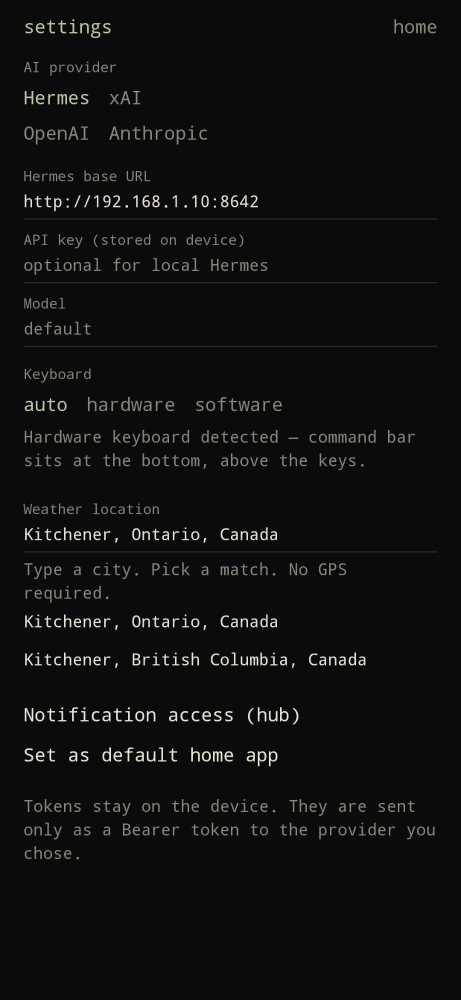
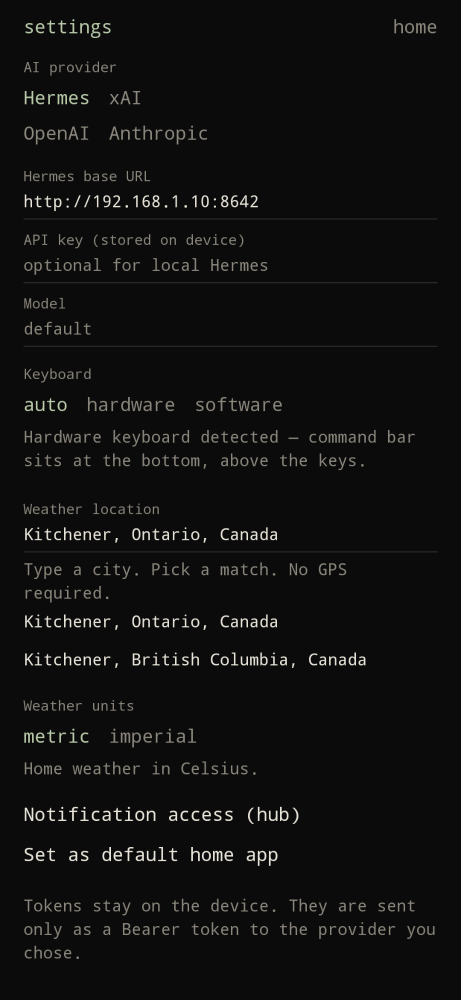
feat: choose metric or imperial weather units
Settings stores weather units and converts Celsius on the home line
so imperial does not wait on a refetch.

diff --git a/app/src/main/java/xyz/cdr/builderlauncher/data/SettingsRepository.kt b/app/src/main/java/xyz/cdr/builderlauncher/data/SettingsRepository.kt
@@ -22,6 +22,7 @@ data class BuilderSettings(
     val weatherPlace: String = "",
     val weatherLat: Double? = null,
     val weatherLon: Double? = null,
+    val weatherUnits: WeatherUnits = WeatherUnits.METRIC,
     val oauthAccess: String = "",
     val oauthRefresh: String = "",
     val oauthExpiresAtEpochMs: Long = 0L,
@@ -38,6 +39,15 @@ data class BuilderSettings(
 }
 
 enum class KeyboardMode { AUTO, HARDWARE, SOFTWARE }
+
+enum class WeatherUnits {
+    METRIC,
+    IMPERIAL,
+    ;
+
+    fun displayTemperature(celsius: Int): Int =
+        if (this == IMPERIAL) kotlin.math.round(celsius * 9.0 / 5.0 + 32.0).toInt() else celsius
+}
 
 class SettingsRepository(context: Context) {
     private val appContext = context.applicationContext
@@ -92,6 +102,9 @@ class SettingsRepository(context: Context) {
         val kb = runCatching {
             KeyboardMode.valueOf(prefs.getString(KEY_KB, KeyboardMode.AUTO.name)!!)
         }.getOrDefault(KeyboardMode.AUTO)
+        val units = runCatching {
+            WeatherUnits.valueOf(prefs.getString(KEY_WEATHER_UNITS, WeatherUnits.METRIC.name)!!)
+        }.getOrDefault(WeatherUnits.METRIC)
         return BuilderSettings(
             provider = provider,
             hermesBaseUrl = prefs.getString(KEY_HERMES, "") ?: "",
@@ -101,6 +114,7 @@ class SettingsRepository(context: Context) {
             weatherPlace = prefs.getString(KEY_WEATHER_PLACE, "") ?: "",
             weatherLat = prefs.getString(KEY_WEATHER_LAT, "")?.toDoubleOrNull(),
             weatherLon = prefs.getString(KEY_WEATHER_LON, "")?.toDoubleOrNull(),
+            weatherUnits = units,
             oauthAccess = prefs.getString(KEY_OAUTH_ACCESS, "") ?: "",
             oauthRefresh = prefs.getString(KEY_OAUTH_REFRESH, "") ?: "",
             oauthExpiresAtEpochMs = prefs.getString(KEY_OAUTH_EXPIRES, "0")?.toLongOrNull() ?: 0L,
@@ -118,6 +132,7 @@ class SettingsRepository(context: Context) {
             .putString(KEY_WEATHER_PLACE, next.weatherPlace)
             .putString(KEY_WEATHER_LAT, next.weatherLat?.toString() ?: "")
             .putString(KEY_WEATHER_LON, next.weatherLon?.toString() ?: "")
+            .putString(KEY_WEATHER_UNITS, next.weatherUnits.name)
             .putString(KEY_OAUTH_ACCESS, next.oauthAccess)
             .putString(KEY_OAUTH_REFRESH, next.oauthRefresh)
             .putString(KEY_OAUTH_EXPIRES, next.oauthExpiresAtEpochMs.toString())
@@ -136,6 +151,7 @@ class SettingsRepository(context: Context) {
         private const val KEY_WEATHER_PLACE = "weather_place"
         private const val KEY_WEATHER_LAT = "weather_lat"
         private const val KEY_WEATHER_LON = "weather_lon"
+        private const val KEY_WEATHER_UNITS = "weather_units"
         private const val KEY_OAUTH_ACCESS = "oauth_access"
         private const val KEY_OAUTH_REFRESH = "oauth_refresh"
         private const val KEY_OAUTH_EXPIRES = "oauth_expires"

diff --git a/app/src/main/java/xyz/cdr/builderlauncher/ui/BuilderRoot.kt b/app/src/main/java/xyz/cdr/builderlauncher/ui/BuilderRoot.kt
@@ -78,6 +78,7 @@ import xyz.cdr.builderlauncher.contacts.PhoneContact
 import xyz.cdr.builderlauncher.contacts.PhoneContacts
 import xyz.cdr.builderlauncher.data.HomeTodos
 import xyz.cdr.builderlauncher.data.KeyboardMode
+import xyz.cdr.builderlauncher.data.WeatherUnits
 import xyz.cdr.builderlauncher.data.LlmProvider
 import xyz.cdr.builderlauncher.data.LocalItem
 import xyz.cdr.builderlauncher.data.LocalLists
@@ -300,7 +301,7 @@ fun BuilderRoot(
             Page.Home -> {
                 val previewTodos = HomeTodos.preview(HomeTodos.of(local))
                 ClockHeader(
-                    weather = forecast?.line,
+                    weather = forecast?.line(settings.weatherUnits),
                     onOpenSettings = { page = Page.Settings },
                 )
                 Spacer(Modifier.height(8.dp))
@@ -1038,6 +1039,26 @@ private fun SettingsPage(
                 }
                 scope.launch { weather.refresh() }
             },
+        )
+        Spacer(Modifier.height(16.dp))
+        Text("Weather units", color = Dim, style = MaterialTheme.typography.labelSmall)
+        Row(horizontalArrangement = Arrangement.spacedBy(16.dp), modifier = Modifier.padding(vertical = 8.dp)) {
+            WeatherUnits.entries.forEach { units ->
+                Text(
+                    units.name.lowercase(),
+                    color = if (settings.weatherUnits == units) Prompt else Dim,
+                    modifier = Modifier.clickable { repo.update { it.copy(weatherUnits = units) } },
+                )
+            }
+        }
+        Text(
+            if (settings.weatherUnits == WeatherUnits.IMPERIAL) {
+                "Home weather in Fahrenheit."
+            } else {
+                "Home weather in Celsius."
+            },
+            color = Dim,
+            style = MaterialTheme.typography.bodyMedium,
         )
         Spacer(Modifier.height(20.dp))
         Text(

diff --git a/app/src/main/java/xyz/cdr/builderlauncher/ui/LauncherChrome.kt b/app/src/main/java/xyz/cdr/builderlauncher/ui/LauncherChrome.kt
@@ -26,6 +26,7 @@ import androidx.compose.ui.unit.dp
 import xyz.cdr.builderlauncher.data.BuilderSettings
 import xyz.cdr.builderlauncher.data.HomeTodos
 import xyz.cdr.builderlauncher.data.KeyboardMode
+import xyz.cdr.builderlauncher.data.WeatherUnits
 import xyz.cdr.builderlauncher.data.LlmProvider
 import xyz.cdr.builderlauncher.data.Notes
 import xyz.cdr.builderlauncher.ui.theme.Dim
@@ -313,6 +314,25 @@ fun SettingsChrome(
         weatherSuggestions.forEach { label ->
             Text(label, color = Paper, style = MaterialTheme.typography.bodyMedium, modifier = Modifier.padding(vertical = 8.dp))
         }
+        Spacer(Modifier.height(16.dp))
+        Text("Weather units", color = Dim, style = MaterialTheme.typography.labelSmall)
+        Row(horizontalArrangement = Arrangement.spacedBy(16.dp), modifier = Modifier.padding(vertical = 8.dp)) {
+            WeatherUnits.entries.forEach { units ->
+                Text(
+                    units.name.lowercase(),
+                    color = if (settings.weatherUnits == units) Prompt else Dim,
+                )
+            }
+        }
+        Text(
+            if (settings.weatherUnits == WeatherUnits.IMPERIAL) {
+                "Home weather in Fahrenheit."
+            } else {
+                "Home weather in Celsius."
+            },
+            color = Dim,
+            style = MaterialTheme.typography.bodyMedium,
+        )
         Spacer(Modifier.height(20.dp))
         Text("Notification access (hub)", color = Paper)
         Spacer(Modifier.height(12.dp))

diff --git a/app/src/main/java/xyz/cdr/builderlauncher/weather/WeatherRepository.kt b/app/src/main/java/xyz/cdr/builderlauncher/weather/WeatherRepository.kt
@@ -24,8 +24,8 @@ import okhttp3.HttpUrl.Companion.toHttpUrl
 import okhttp3.OkHttpClient
 import okhttp3.Request
 import xyz.cdr.builderlauncher.data.SettingsRepository
+import xyz.cdr.builderlauncher.data.WeatherUnits
 import java.io.File
-import java.util.Locale
 import java.util.concurrent.TimeUnit
 import kotlin.coroutines.resume
 
@@ -37,7 +37,9 @@ data class WeatherSnapshot(
     val latitude: Double,
     val longitude: Double,
 ) {
-    val line: String get() = "$temperature° $condition"
+    val line: String get() = line(WeatherUnits.METRIC)
+
+    fun line(units: WeatherUnits): String = "${units.displayTemperature(temperature)}° $condition"
 }
 
 class WeatherRepository(
@@ -56,12 +58,11 @@ class WeatherRepository(
 
     suspend fun refresh() = withContext(Dispatchers.IO) {
         val point = WeatherPointResolver.fromSettings(settings.settings.value) ?: gpsPoint() ?: return@withContext
-        val unit = if (Locale.getDefault().country.equals("US", true)) "fahrenheit" else "celsius"
         val url = "https://api.open-meteo.com/v1/forecast".toHttpUrl().newBuilder()
             .addQueryParameter("latitude", point.latitude.toString())
             .addQueryParameter("longitude", point.longitude.toString())
             .addQueryParameter("current", "temperature_2m,weather_code")
-            .addQueryParameter("temperature_unit", unit)
+            .addQueryParameter("temperature_unit", "celsius")
             .build()
         val req = Request.Builder().url(url).get().build()
         runCatching {

diff --git a/app/src/test/java/xyz/cdr/builderlauncher/weather/WeatherUnitsTest.kt b/app/src/test/java/xyz/cdr/builderlauncher/weather/WeatherUnitsTest.kt
@@ -1,0 +1,33 @@
+package xyz.cdr.builderlauncher.weather
+
+import org.junit.Assert.assertEquals
+import org.junit.Test
+import xyz.cdr.builderlauncher.data.WeatherUnits
+
+class WeatherUnitsTest {
+    @Test
+    fun metricKeepsCelsius() {
+        assertEquals(18, WeatherUnits.METRIC.displayTemperature(18))
+        assertEquals("18° cloudy", WeatherCodes.line(18, 3, WeatherUnits.METRIC))
+    }
+
+    @Test
+    fun imperialConvertsFromCelsius() {
+        assertEquals(64, WeatherUnits.IMPERIAL.displayTemperature(18))
+        assertEquals(-4, WeatherUnits.IMPERIAL.displayTemperature(-20))
+        assertEquals("64° cloudy", WeatherCodes.line(18, 3, WeatherUnits.IMPERIAL))
+    }
+
+    @Test
+    fun snapshotLineUsesSelectedUnits() {
+        val snap = WeatherSnapshot(
+            temperature = 18,
+            condition = "cloudy",
+            fetchedAt = 0L,
+            latitude = 43.45,
+            longitude = -80.49,
+        )
+        assertEquals("18° cloudy", snap.line(WeatherUnits.METRIC))
+        assertEquals("64° cloudy", snap.line(WeatherUnits.IMPERIAL))
+    }
+}

diff --git a/app/src/main/java/xyz/cdr/builderlauncher/weather/WeatherCodes.kt b/app/src/main/java/xyz/cdr/builderlauncher/weather/WeatherCodes.kt
@@ -1,5 +1,7 @@
 package xyz.cdr.builderlauncher.weather
 
+import xyz.cdr.builderlauncher.data.WeatherUnits
+
 object WeatherCodes {
     fun label(code: Int): String = when (code) {
         0 -> "clear"
@@ -13,5 +15,9 @@ object WeatherCodes {
         else -> "—"
     }
 
-    fun line(temperature: Int, code: Int): String = "$temperature° ${label(code)}"
+    fun line(
+        temperature: Int,
+        code: Int,
+        units: WeatherUnits = WeatherUnits.METRIC,
+    ): String = "${units.displayTemperature(temperature)}° ${label(code)}"
 }

diff --git a/README.md b/README.md
@@ -61,7 +61,7 @@ Type on the home screen, then Enter.
 | | `pin Termux` / `unpin Termux` | Pin or unpin on the home list |
 | | `hub` / `notes` / `settings` / `help` | Built-ins |
 
-Home always shows the clock, current weather, and up to 3 open todos. Set the weather city in settings (autocomplete, no GPS). Tap a todo to strike it through; tap again to reopen it. `… more tasks >` is always on home and opens the full todos list (no clock; `<` returns home). The command bar there starts in `-` task mode. The copy icon copies open todos to the clipboard as a markdown checklist dated `YYYY-MM-DD` (no share sheet). Finished items sit below open ones, newest completed first. Type `+` to expand a full-screen markdown note. The first line is seeded with `# ` (`<` home, copy icon top right). Type `notes` (or tap `… all notes >` in the filtered app list) for notes sorted by date edited; first line is the title, delete on the right. D-pad right (or type `hub`) opens the hub: notifications you grant access to. Todos stay on home and `… more tasks >`; notes stay on `notes`. Tap a notification to open it, or dismiss. Hold an app on home to pin or unpin. `@` and `#` complete contacts as you type. Tap the clock for settings.
+Home always shows the clock, current weather, and up to 3 open todos. Set the weather city and metric or imperial units in settings (autocomplete, no GPS). Tap a todo to strike it through; tap again to reopen it. `… more tasks >` is always on home and opens the full todos list (no clock; `<` returns home). The command bar there starts in `-` task mode. The copy icon copies open todos to the clipboard as a markdown checklist dated `YYYY-MM-DD` (no share sheet). Finished items sit below open ones, newest completed first. Type `+` to expand a full-screen markdown note. The first line is seeded with `# ` (`<` home, copy icon top right). Type `notes` (or tap `… all notes >` in the filtered app list) for notes sorted by date edited; first line is the title, delete on the right. D-pad right (or type `hub`) opens the hub: notifications you grant access to. Todos stay on home and `… more tasks >`; notes stay on `notes`. Tap a notification to open it, or dismiss. Hold an app on home to pin or unpin. `@` and `#` complete contacts as you type. Tap the clock for settings.
 
 ## AI settings
 
